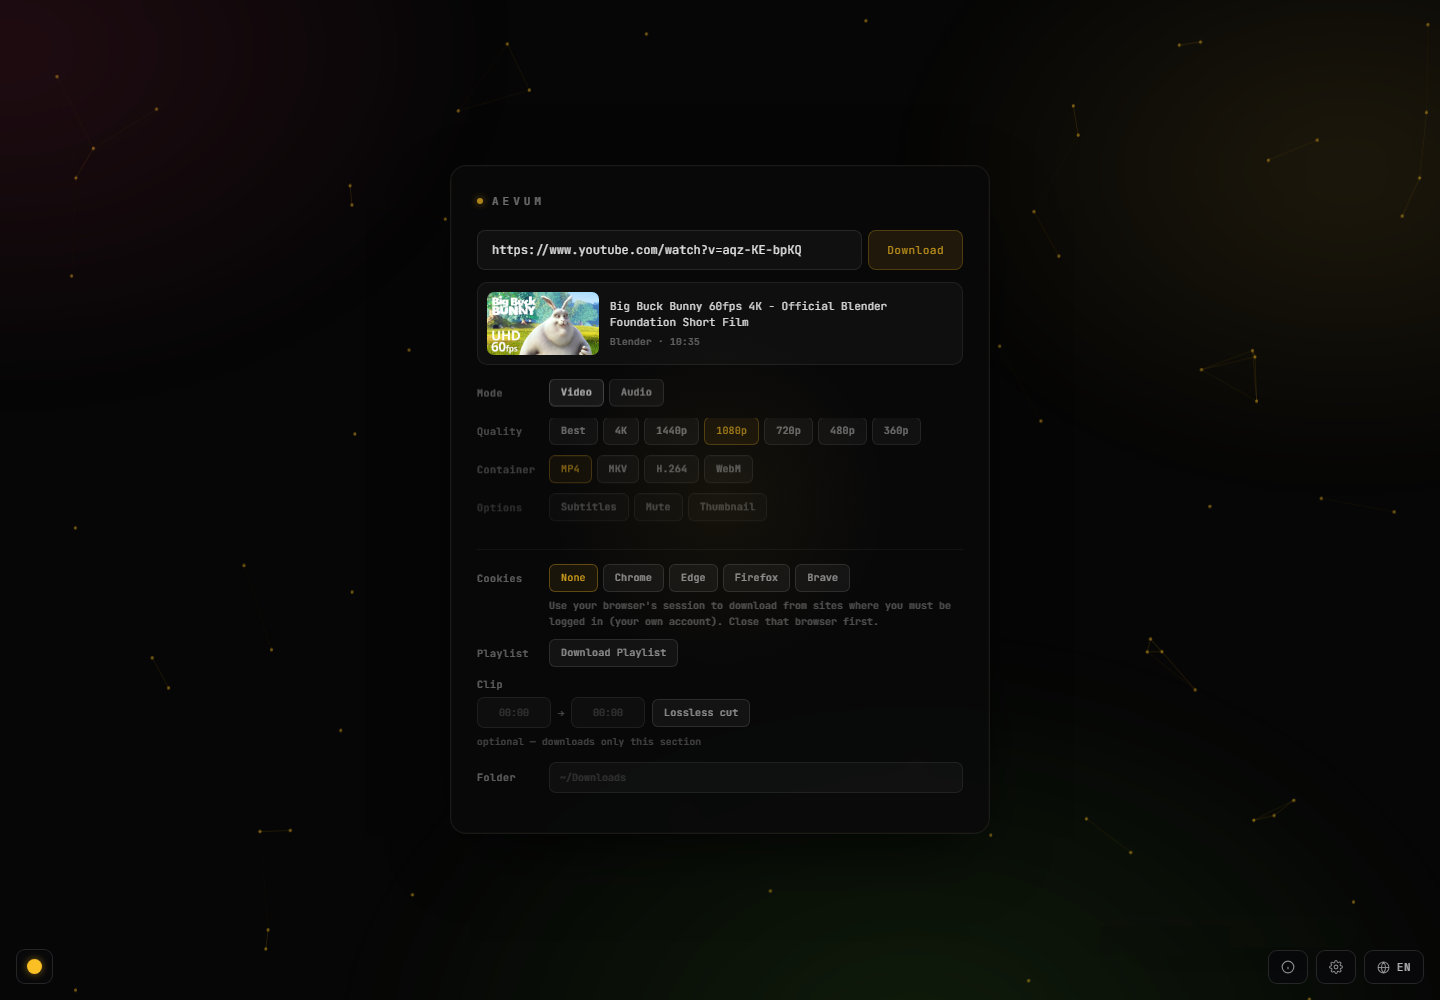
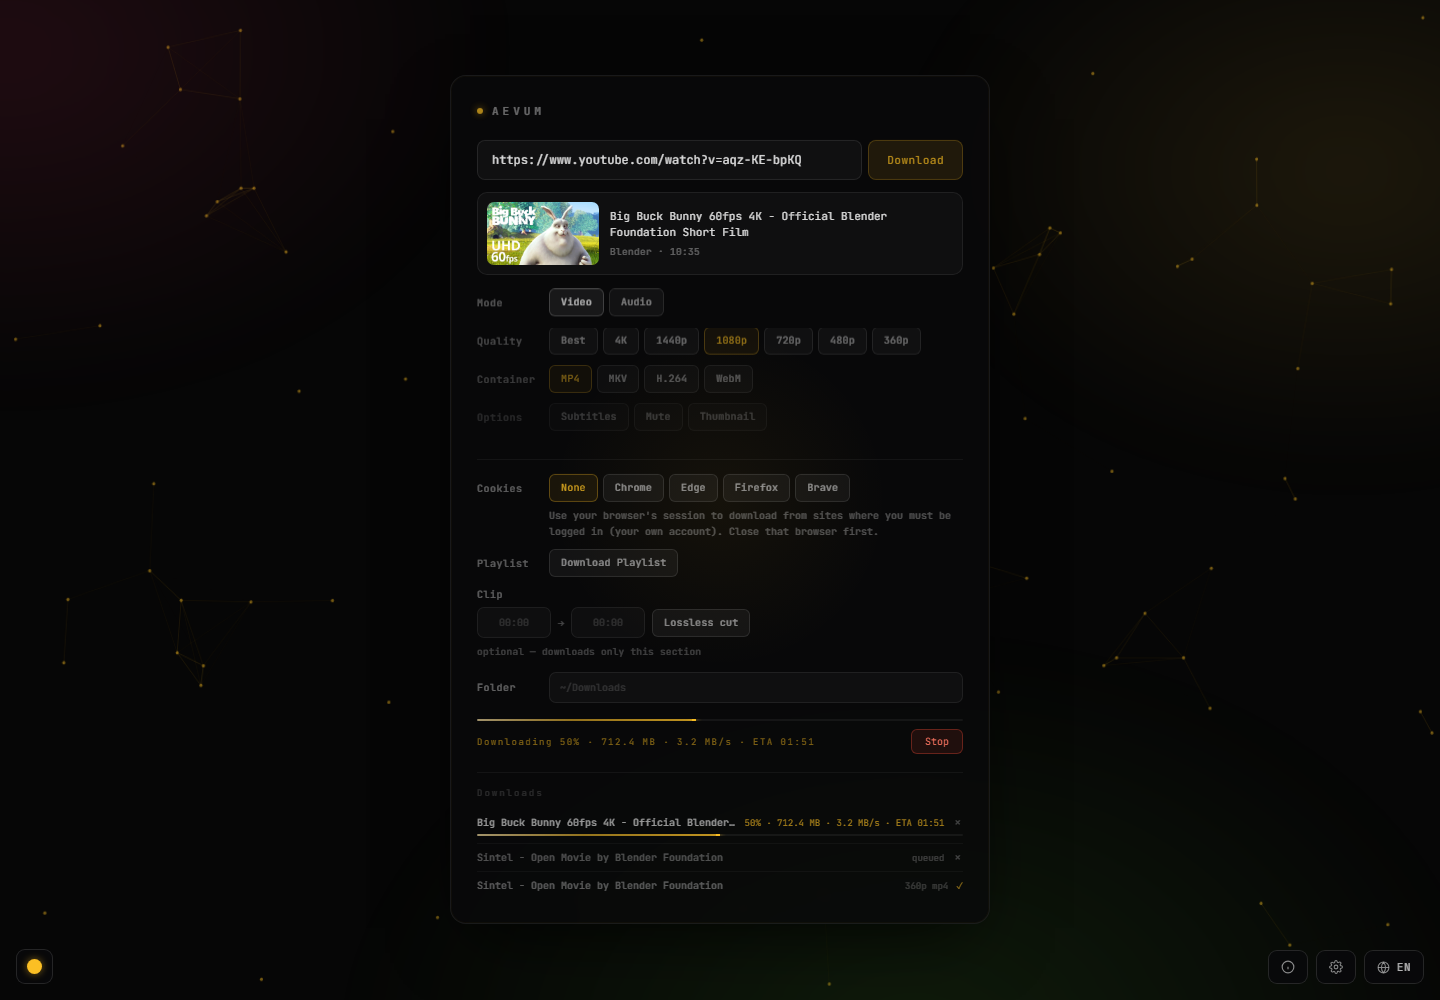
README: the queue, and a screenshot that shows it
The feature list never mentioned the queue that 1.2.3 is built around, so
the one thing people would come looking for after reading the release
notes was missing. The Stop line now says it cancels the running download,
since that is the part it applies to.

The screenshot was taken before the downloads panel existed and showed the
app with nothing in flight. The new one is the same window at the same
size, mid-download, with the panel underneath: one active row with its own
bar and figures, one waiting, one finished.

Both videos in the shot are Blender open movies, Creative Commons, so
nothing copyrighted appears in the thumbnail.

diff --git a/README.md b/README.md
@@ -45,7 +45,8 @@ You only need to do this once.
 - **Subtitles** — embeds the uploader's own subtitles into the file (best-effort; never blocks the download).
 - **Playlists** — download a whole playlist into an auto-created folder; endless YouTube Mixes are safely capped.
 - **Login-only content** — use your browser's cookies to download from sites where you're signed in (your own account).
-- **Stop button** — cancel a download at any time.
+- **Queue** — press Download while one is running and the next link lines up behind it. Every entry gets its own row with the size, speed and time left, and you can drop one back out of the queue.
+- **Stop button** — cancel the running download at any time.
 - **8 languages** — English, Türkçe, Español, Deutsch, Français, Italiano, Português, Русский. Your choice is remembered.
 - **Self-contained** — yt-dlp and FFmpeg are bundled; nothing else to install.
 - **No ads, no tracking** — no adware, no bundled toolbars, no telemetry. Everything runs locally.
